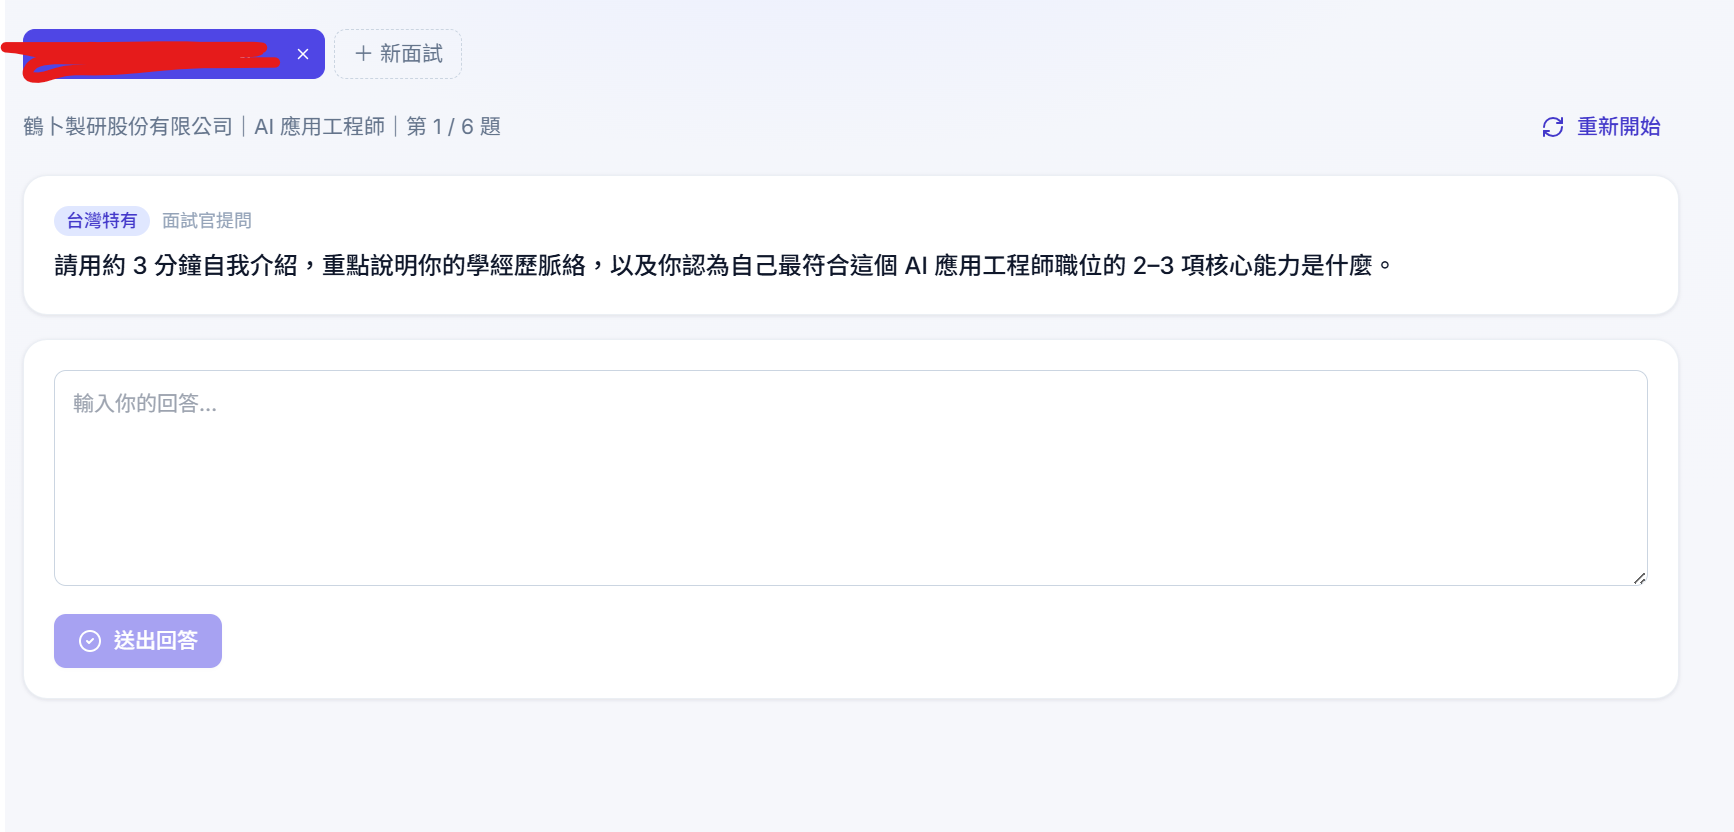
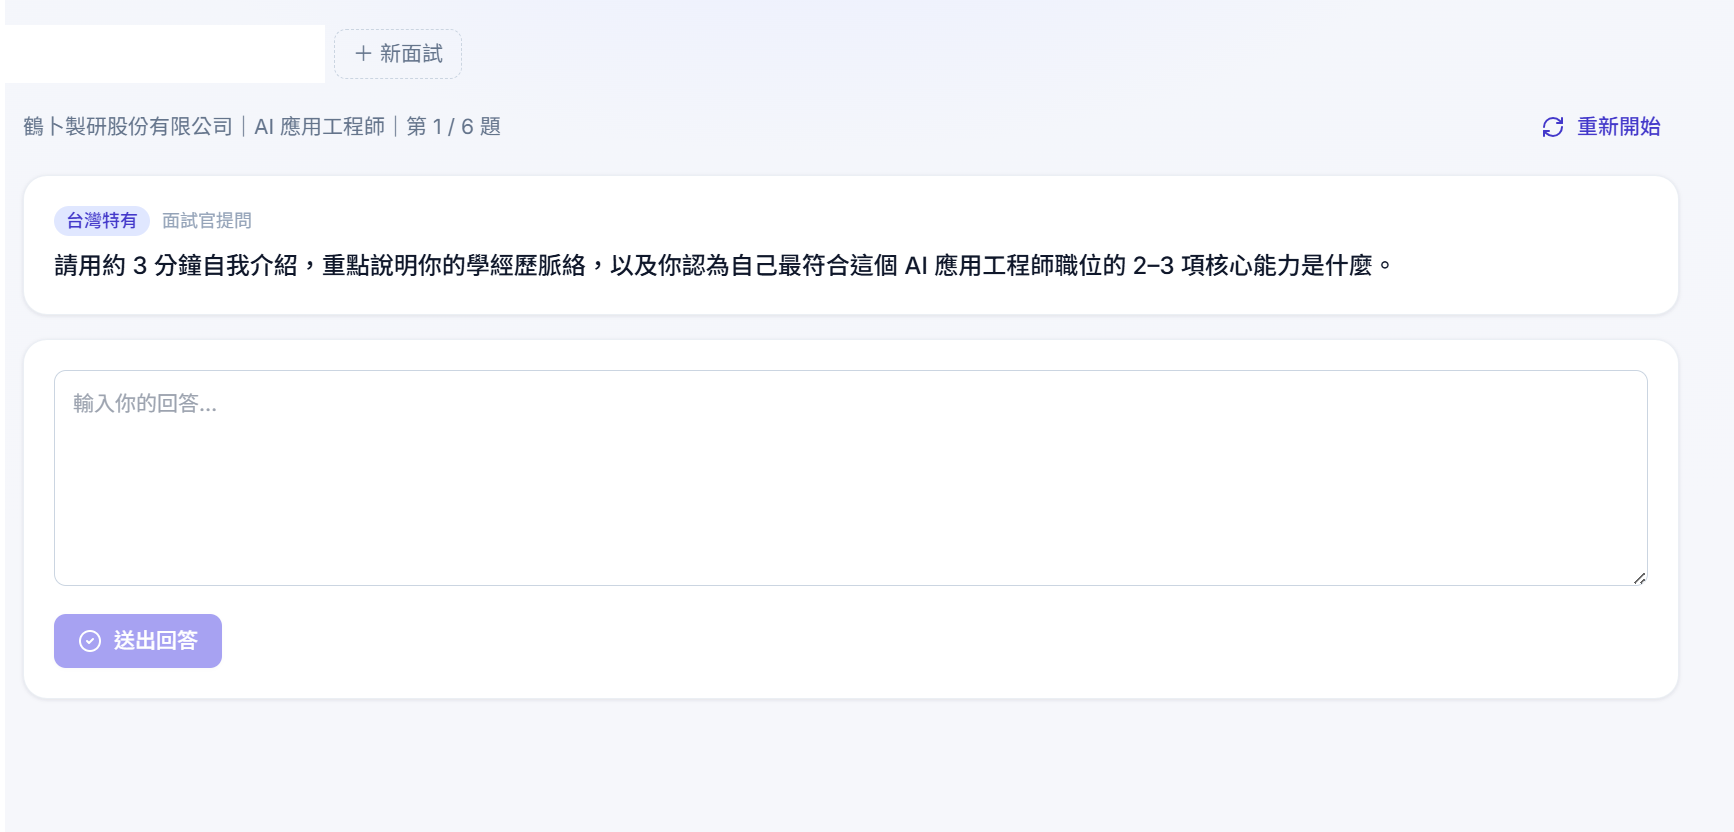
fix(m12): 履歷含 NUL 字元導致搜尋一開始就 ValueError（多頁 PDF 常見）
抽取的履歷文字若含 \x00（UTF-16 存的 .txt、某些多頁 PDF 的 pypdf 結果），
被當成 CLI 子程序參數丟進 subprocess 時直接 ValueError（embedded null
character），前端顯示「AI 服務暫時無法使用（ValueError）」。CLI 測試按鈕用
固定乾淨字串故測得過，但實際搜尋一解析履歷就炸；與後端（claude/codex）無關。

兩層防線：
- resume_parser.extract_text 輸出清掉 NUL 與控制字元（保留 \t \n \r）
- llm_cli._run_claude/_run_codex 送 subprocess 前再以 _safe_arg 清一次 NUL

另：更新 README 用的模擬面試截圖。

Claude-Session: https://claude.ai/code/session_019LehEsgyvvLU92yYnXSnDC

Changed region(s): [[0.0, 0.0312, 0.1869, 0.0938]]

diff --git a/tests/test_llm_cli.py b/tests/test_llm_cli.py
@@ -123,3 +123,41 @@ def test_codex_structured_parses(monkeypatch):
     monkeypatch.setattr(cli, "_run_codex", lambda prompt, extra_args=None: '{"name": "c", "score": 5}')
     out = cli.CodexCLIChat().with_structured_output(Toy).invoke([("human", "h")])
     assert out.name == "c" and out.score == 5
+
+
+def test_run_claude_strips_null_bytes_from_prompt(monkeypatch):
+    # 履歷/JD 偶有殘留 \x00（UTF-16 .txt、某些 PDF）；直接進 subprocess 會丟 ValueError("embedded null byte")，
+    # 這正是「一按搜尋就 AI 服務暫時無法使用（ValueError）」的根因。送進 args 的 prompt 必須先清掉。
+    seen = {}
+
+    class FakeProc:
+        returncode = 0
+        stdout = json.dumps({"is_error": False, "result": "ok"})
+        stderr = ""
+
+    def fake_run(args, **kwargs):
+        seen["args"] = args
+        return FakeProc()
+
+    monkeypatch.setattr(cli.subprocess, "run", fake_run)
+    monkeypatch.setattr(cli.shutil, "which", lambda name: "claude")
+    cli._run_claude("履歷\x00內容\x00殘留", "haiku")
+    assert all("\x00" not in a for a in seen["args"])
+
+
+def test_run_codex_strips_null_bytes_from_prompt(monkeypatch):
+    seen = {}
+
+    class FakeProc:
+        returncode = 0
+        stdout = "{}"
+        stderr = ""
+
+    def fake_run(args, **kwargs):
+        seen["args"] = args
+        return FakeProc()
+
+    monkeypatch.setattr(cli.subprocess, "run", fake_run)
+    monkeypatch.setattr(cli.shutil, "which", lambda name: "codex")
+    cli._run_codex("JD\x00內容\x00殘留")
+    assert all("\x00" not in a for a in seen["args"])

diff --git a/app/intake/resume_parser.py b/app/intake/resume_parser.py
@@ -1,17 +1,30 @@
 """履歷檔案攝取：PDF / DOCX / 純文字 → 純文字。"""
 from __future__ import annotations
 
+import re
 from io import BytesIO
+
+# 控制字元（含 NUL \x00）會殘留在 UTF-16 存的 .txt、或某些 PDF 的抽取結果裡。
+# \x00 之後被當成 CLI 參數丟進 subprocess 會直接 ValueError("embedded null byte")，
+# 其餘 C0/C1 控制字元也只是 LLM 雜訊。保留常見空白（\t \n \r），其餘一律移除。
+_CONTROL_CHARS = re.compile(r"[\x00-\x08\x0b\x0c\x0e-\x1f\x7f]")
+
+
+def _clean(text: str) -> str:
+    """移除 NUL 與其他控制字元（保留 \\t \\n \\r），避免下游 subprocess/LLM 出錯。"""
+    return _CONTROL_CHARS.sub("", text or "")
 
 
 def extract_text(data: bytes, filename: str) -> str:
-    """依副檔名抽取純文字；未知副檔名以 UTF-8 文字處理。"""
+    """依副檔名抽取純文字；未知副檔名以 UTF-8 文字處理。輸出一律清掉控制字元。"""
     name = (filename or "").lower()
     if name.endswith(".pdf"):
-        return _extract_pdf(data)
-    if name.endswith(".docx"):
-        return _extract_docx(data)
-    return data.decode("utf-8", errors="ignore")
+        raw = _extract_pdf(data)
+    elif name.endswith(".docx"):
+        raw = _extract_docx(data)
+    else:
+        raw = data.decode("utf-8", errors="ignore")
+    return _clean(raw)
 
 
 def _extract_pdf(data: bytes) -> str:

diff --git a/tests/test_resume_parser.py b/tests/test_resume_parser.py
@@ -30,3 +30,17 @@ def test_extract_text_pdf():
     data = Path("tests/fixtures/sample_resume.pdf").read_bytes()
     text = rp.extract_text(data, "resume.pdf")
     assert "Resume" in text
+
+
+def test_extract_text_strips_null_bytes():
+    # UTF-16 存的 .txt、或某些 PDF 抽取結果會殘留 NUL(\x00)。\x00 是合法 UTF-8(U+0000)，
+    # errors="ignore" 不會清掉它；接著被當 CLI 參數丟進 subprocess 會直接 ValueError("embedded null byte")。
+    text = rp.extract_text(b"A\x00B\x00C", "resume.txt")
+    assert "\x00" not in text
+    assert "ABC" in text
+
+
+def test_extract_text_preserves_whitespace():
+    # 清控制字元時不可誤殺常見空白（換行/Tab），否則履歷排版全毀。
+    text = rp.extract_text("第一行\n第二行\t縮排".encode("utf-8"), "resume.txt")
+    assert "\n" in text and "\t" in text

diff --git a/app/llm_cli.py b/app/llm_cli.py
@@ -27,6 +27,12 @@ _TIMEOUT = 300
 _NO_WINDOW = getattr(subprocess, "CREATE_NO_WINDOW", 0)
 
 
+def _safe_arg(text: str) -> str:
+    """移除 NUL：含 \\x00 的字串當 subprocess 參數會直接 ValueError("embedded null byte")。
+    履歷/JD 等外部文字（UTF-16 .txt、某些 PDF 抽取）偶有殘留，作為邊界防線一律先清掉。"""
+    return (text or "").replace("\x00", "")
+
+
 def _messages_to_prompt(messages) -> tuple[str, str]:
     """把 [(role, content), ...] 拆成 (system, human) 兩段合併字串。"""
     system_parts, human_parts = [], []
@@ -133,7 +139,7 @@ def _run_claude(prompt: str, model: str, allowed_tools: list[str] | None = None,
         raise RuntimeError("找不到 claude CLI，請確認已安裝並在 PATH。")
     env = {k: v for k, v in os.environ.items()
            if k not in ("ANTHROPIC_API_KEY", "ANTHROPIC_AUTH_TOKEN")}
-    args = [exe, "-p", prompt, "--output-format", "json", "--model", model]
+    args = [exe, "-p", _safe_arg(prompt), "--output-format", "json", "--model", model]
     if allowed_tools:
         args += ["--allowedTools", *allowed_tools]
     proc = subprocess.run(
@@ -222,7 +228,7 @@ def _run_codex(prompt: str, timeout: int = _TIMEOUT, extra_args: list[str] | Non
         out_file = Path(td) / "last.txt"
         # -o 為 --output-last-message 短旗標：把模型最終訊息寫入檔案，避免混入 agent log
         args = [exe, "exec", "--skip-git-repo-check", "-s", "read-only",
-                "-o", str(out_file), *(extra_args or []), prompt]
+                "-o", str(out_file), *(extra_args or []), _safe_arg(prompt)]
         proc = subprocess.run(
             args, input="", capture_output=True, text=True, encoding="utf-8",
             env=env, timeout=timeout, creationflags=_NO_WINDOW,